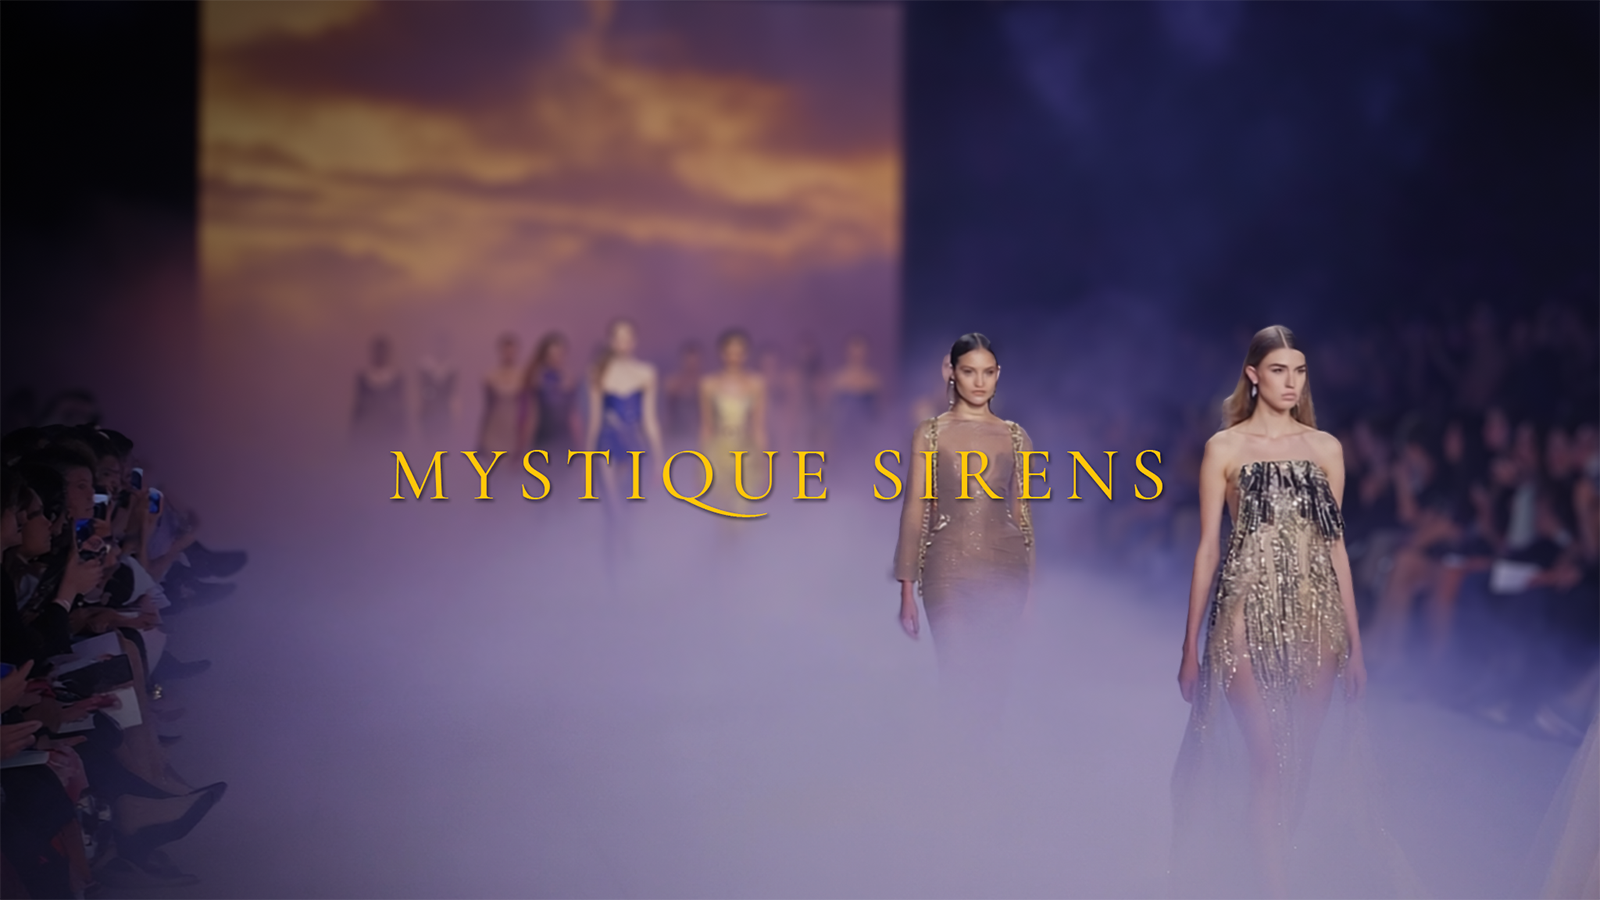
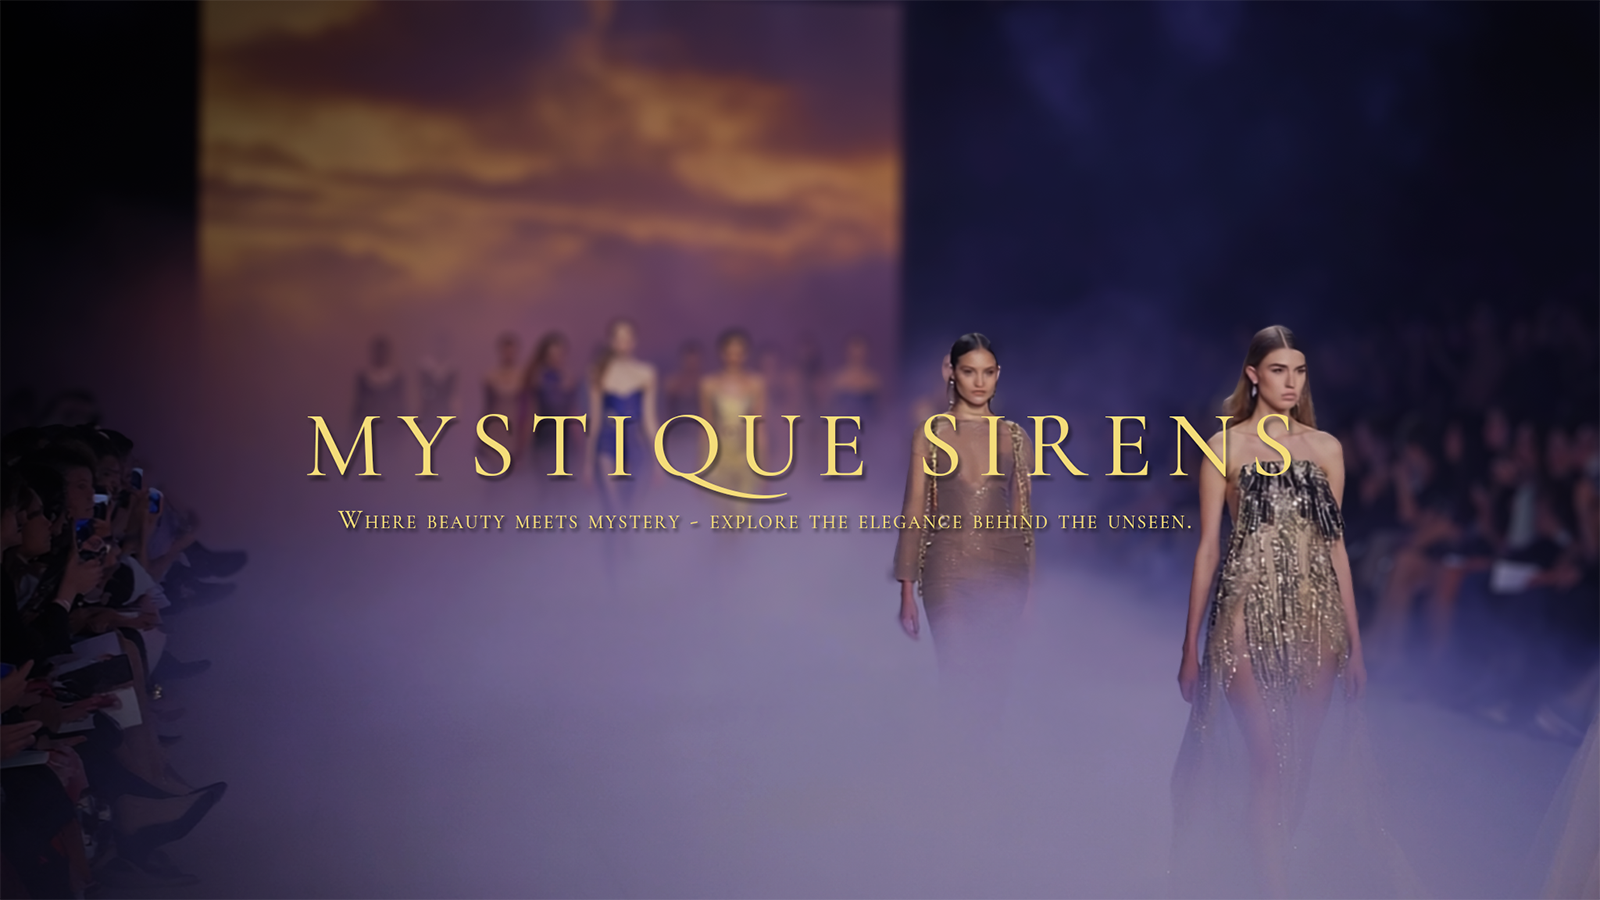
Feat: Style change
Style change t page, header image, fonts, colour

Changed region(s): [[0.1875, 0.4356, 0.8125, 0.5911]]

diff --git a/index.html b/index.html
@@ -42,12 +42,6 @@
             padding: 3rem 1rem;
         }
 
-        .overlay h1 {
-            font-size: 4rem;
-            letter-spacing: 8px;
-            text-transform: uppercase;
-            margin: 0;
-        }
 
         .overlay p {
             font-style: italic;
@@ -120,8 +114,6 @@
     <header>
        <img src="hero-image.png" alt="Mystique Sirens Banner" class="hero-image">
         <div class="overlay">
-            <h1>Mystique Sirens</h1>
-            <p>Where beauty meets mystery — explore the elegance behind the unseen.</p>
         </div>
     </header>
     <main>

diff --git a/style.css b/style.css
@@ -21,20 +21,20 @@ body {
 }
 
 .main-title {
-  font-weight: 500;
+  font-weight: 400;
   font-size: 2em;
   text-align: left;
   padding: 2rem 1rem 0.5rem;
 }
 
 .story-title {
-  font-weight: 400;
+  font-weight: 300;
   font-size: 1.5em;
   padding: 0.5rem 1rem 0.25rem;
 }
 
 .story-description {
-  font-weight: 300;
+  font-weight: 200;
   font-size: 1em;
   padding: 0 1rem 1.5rem;
   line-height: 1.6;
